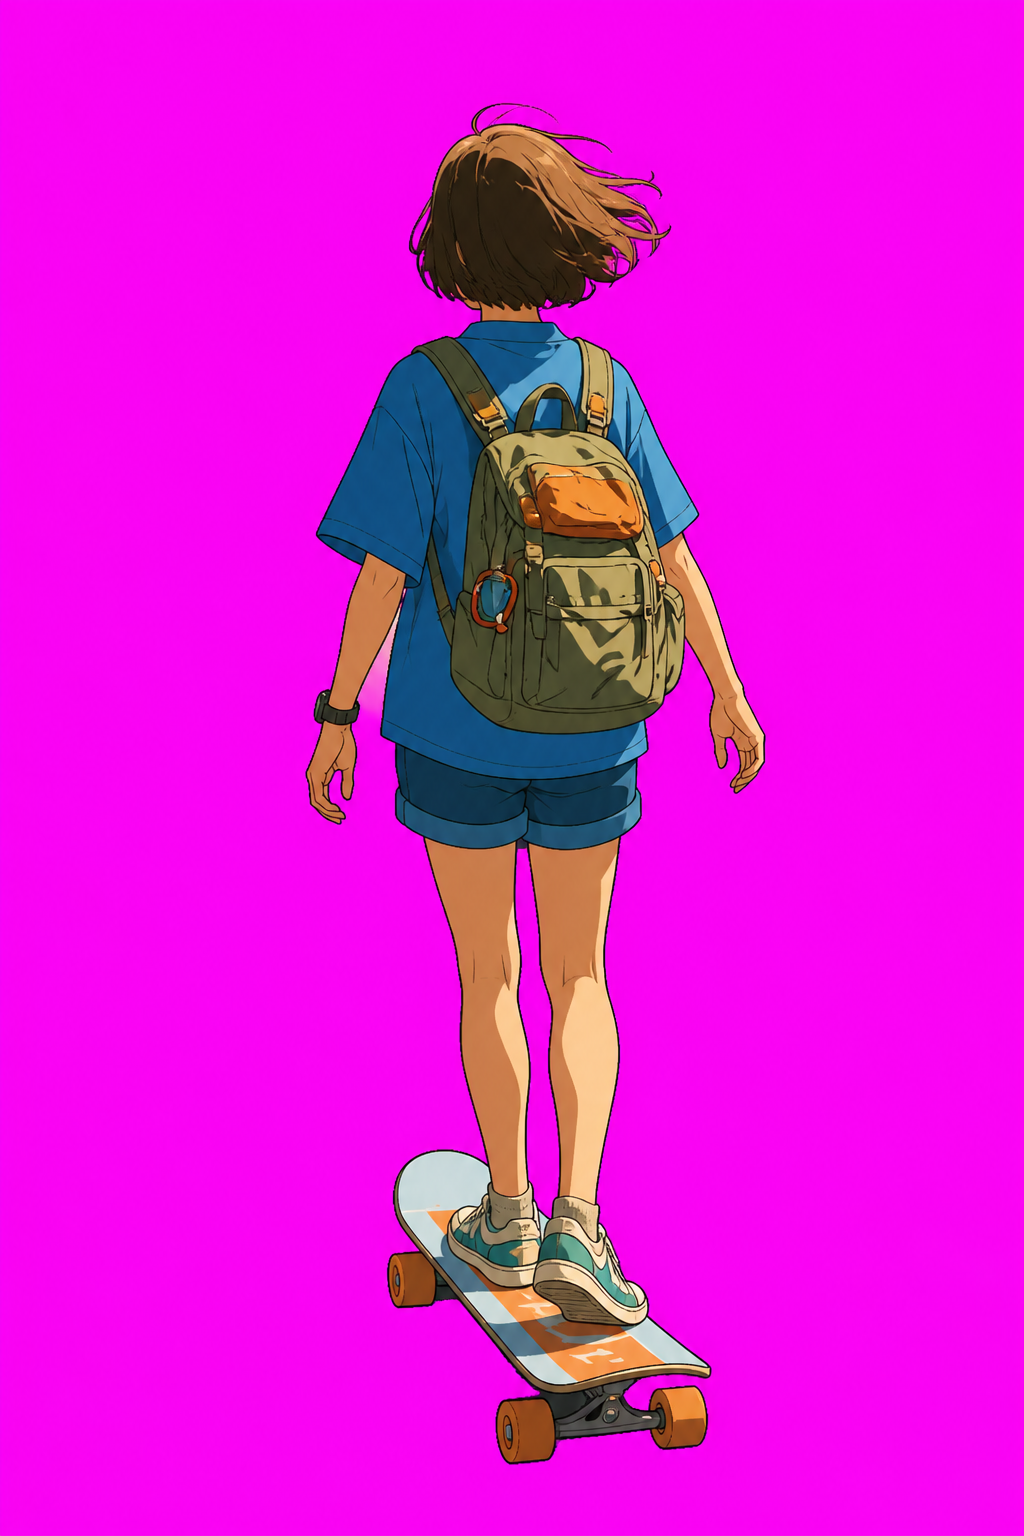
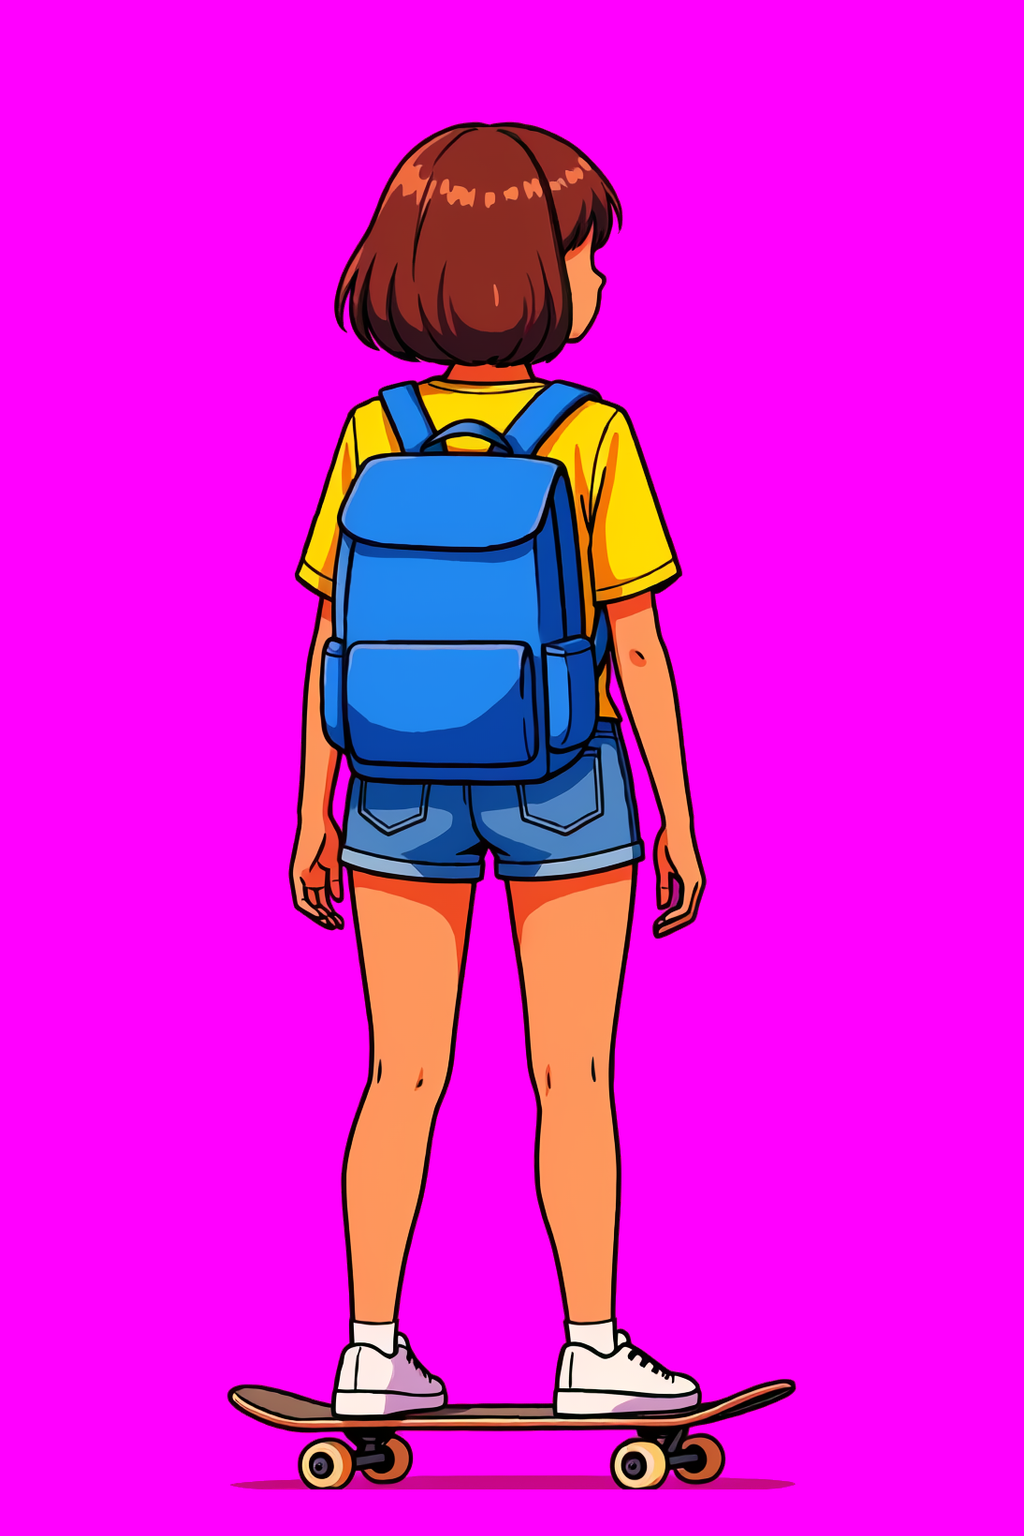
feat(player): painted pose sheet, and stop tilting the sprite
Two things were wrong with the skater billboard.

It used a full LookAt, which aimed the quad at a camera sitting well above her.
The sprite tilted back, foreshortened, and read as a squashed figure hovering over
the deck rather than standing on it. Billboarding on yaw only keeps her upright
with her feet where the board is.

And it was one drawing for every situation - jumping, ducking and carving all
showed the same running pose, with a vertical squash standing in for a crouch. She
now switches between painted run, jump, crouch and lean poses, the lean mirrored
by flipping the texture for the other direction. Each pose is optional: whatever is
missing falls back to the run sprite, and the old squash still covers crouch until
that drawing exists. Only the run pose is in this commit.

Lane-change detection uses smoothed lateral velocity rather than the lane index, so
the lean appears while she is moving instead of snapping at the moment the lane
number changes.

The re-keyed run sprite is a third of its old size - 1.4 MB to 466 KB - because the
original carried a lot of near-transparent fringe.

Changed region(s): [[0.2188, 0.0625, 0.7812, 0.9688]]

diff --git a/Assets/_CoastRun/Scripts/Player/CoastPlayerVisual.cs b/Assets/_CoastRun/Scripts/Player/CoastPlayerVisual.cs
@@ -24,6 +24,14 @@ namespace CoastRun
         private Vector3 _billboardBasePos;
         private Vector3 _billboardBaseScale = new Vector3(0.95f, 1.45f, 1f);
 
+        // Painted pose sheet (Firefly): run / jump / crouch / lean. Any missing pose
+        // falls back to the run sprite (and crouch to the old squash).
+        private Material _billboardMat;
+        private Texture2D _poseRun, _poseJump, _poseCrouch, _poseLean;
+        private Texture2D _poseCurrent;
+        private float _lastLateral;
+        private float _lateralVel;
+
         // Lane lean — same sign as camera roll (opposite to lane motion). Character leads camera.
         private float _leanZ;
         private float _leanTarget;
@@ -87,6 +95,10 @@ namespace CoastRun
             var tex = ArtAssets.LoadTexture("GirlSkater_Back");
             if (tex == null)
                 return;
+            _poseRun = tex;
+            _poseJump = Resources.Load<Texture2D>(ArtAssets.ResourceRoot + "GirlSkater_Jump");
+            _poseCrouch = Resources.Load<Texture2D>(ArtAssets.ResourceRoot + "GirlSkater_Crouch");
+            _poseLean = Resources.Load<Texture2D>(ArtAssets.ResourceRoot + "GirlSkater_Lean");
 
             foreach (var r in GetComponentsInChildren<Renderer>(true))
             {
@@ -114,6 +126,8 @@ namespace CoastRun
                 mat.SetColor("_KeyColor", new Color(1f, 0f, 1f, 1f));
             quad.GetComponent<Renderer>().sharedMaterial = mat;
             quad.GetComponent<Renderer>().shadowCastingMode = UnityEngine.Rendering.ShadowCastingMode.Off;
+            _billboardMat = mat;
+            _poseCurrent = tex;
             _billboard = quad.transform;
             _billboardBasePos = _billboard.localPosition;
             _billboardBaseScale = _billboard.localScale;
@@ -302,6 +316,7 @@ namespace CoastRun
 
         private void LateUpdate()
         {
+            UpdatePose();
             ApplyCrouchBillboard();
 
             if (_billboard == null)
@@ -309,8 +324,63 @@ namespace CoastRun
             var cam = Camera.main;
             if (cam == null)
                 return;
-            _billboard.LookAt(cam.transform.position, Vector3.up);
-            _billboard.Rotate(0f, 180f, 0f);
+            // Yaw-only billboard: the sprite stays upright with its feet on the deck.
+            // Full LookAt tilted the quad back toward the high camera, which read as a
+            // squashed, floating figure.
+            Vector3 toCam = cam.transform.position - _billboard.position;
+            toCam.y = 0f;
+            if (toCam.sqrMagnitude > 0.001f)
+                _billboard.rotation = Quaternion.LookRotation(-toCam.normalized, Vector3.up);
+        }
+
+        /// Picks the painted pose for this frame: air → jump, crouch → crouch, a lane
+        /// change in progress → lean (mirrored for the other direction), else run.
+        private void UpdatePose()
+        {
+            if (_billboardMat == null || _player == null)
+                return;
+
+            float dt = Mathf.Max(Time.deltaTime, 0.0001f);
+            float lateral = _player.LateralOffset;
+            float vel = (lateral - _lastLateral) / dt;
+            _lastLateral = lateral;
+            _lateralVel = Mathf.Lerp(_lateralVel, vel, 1f - Mathf.Exp(-dt * 18f));
+
+            Texture2D want = _poseRun;
+            bool mirror = false;
+            if (_menuPose)
+                want = _poseRun;
+            else if (_player.State == SkateState.Air && _poseJump != null)
+                want = _poseJump;
+            else if (_player.IsCrouching && _poseCrouch != null)
+                want = _poseCrouch;
+            else if (Mathf.Abs(_lateralVel) > 2.5f && _poseLean != null)
+            {
+                want = _poseLean;
+                mirror = _lateralVel > 0f;   // painted lean goes left; flip for right
+            }
+
+            if (want != _poseCurrent)
+            {
+                _poseCurrent = want;
+                if (_billboardMat.HasProperty("_BaseMap")) _billboardMat.SetTexture("_BaseMap", want);
+                else _billboardMat.mainTexture = want;
+            }
+            var st = _billboardMat.HasProperty("_BaseMap") ? _billboardMat.GetTextureScale("_BaseMap") : _billboardMat.mainTextureScale;
+            float sx = mirror ? -1f : 1f;
+            if (!Mathf.Approximately(st.x, sx))
+            {
+                if (_billboardMat.HasProperty("_BaseMap"))
+                {
+                    _billboardMat.SetTextureScale("_BaseMap", new Vector2(sx, 1f));
+                    _billboardMat.SetTextureOffset("_BaseMap", new Vector2(mirror ? 1f : 0f, 0f));
+                }
+                else
+                {
+                    _billboardMat.mainTextureScale = new Vector2(sx, 1f);
+                    _billboardMat.mainTextureOffset = new Vector2(mirror ? 1f : 0f, 0f);
+                }
+            }
         }
 
         private void ApplyCrouchBillboard()
@@ -318,7 +388,8 @@ namespace CoastRun
             if (_billboard == null || _player == null || _menuPose)
                 return;
 
-            if (_player.IsCrouching)
+            // With a painted crouch pose the sprite itself ducks; no squash needed.
+            if (_player.IsCrouching && _poseCrouch == null)
             {
                 _billboard.localScale = new Vector3(
                     _billboardBaseScale.x,
